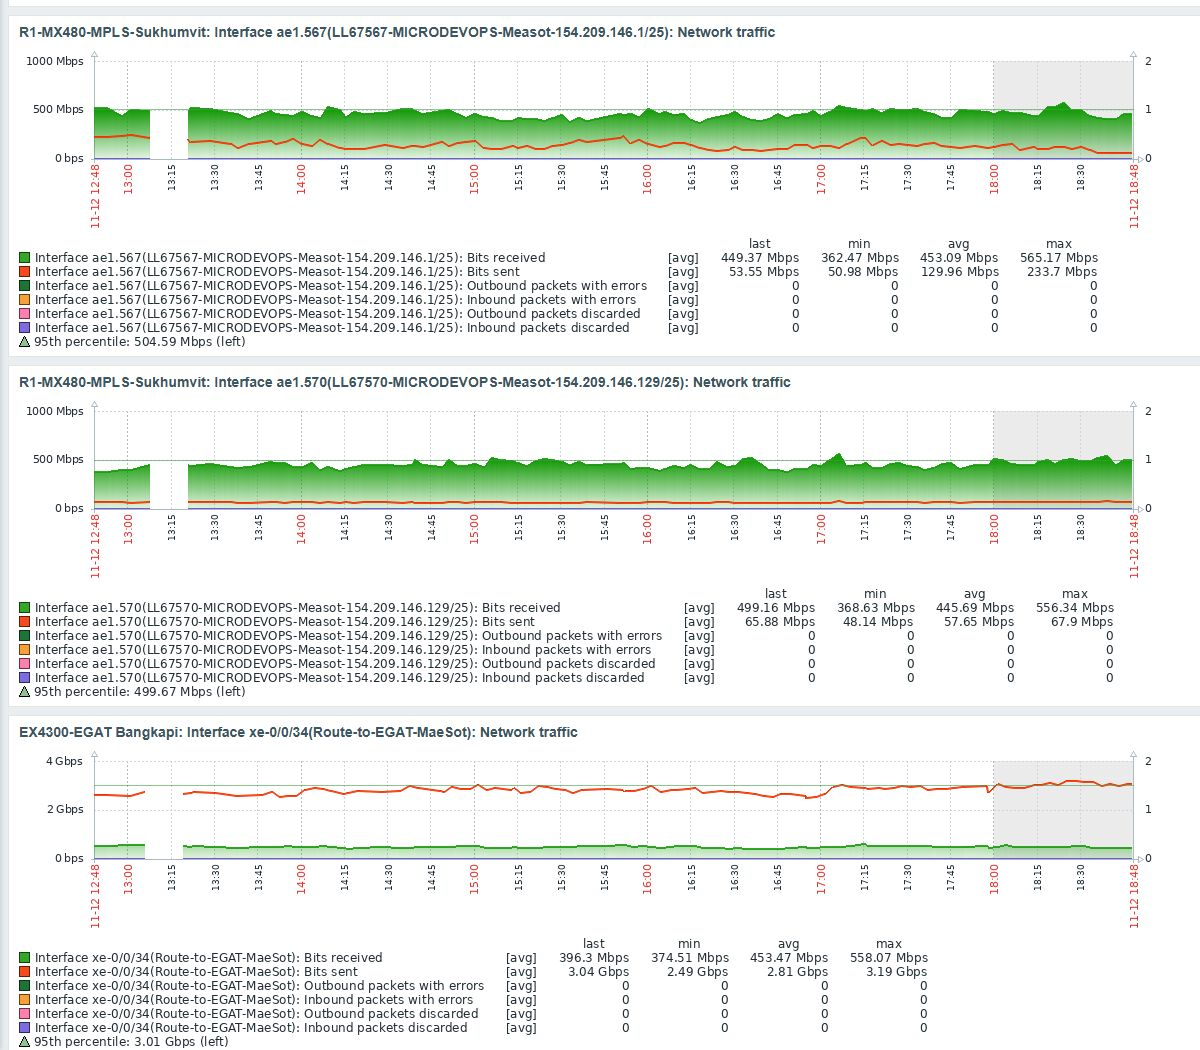
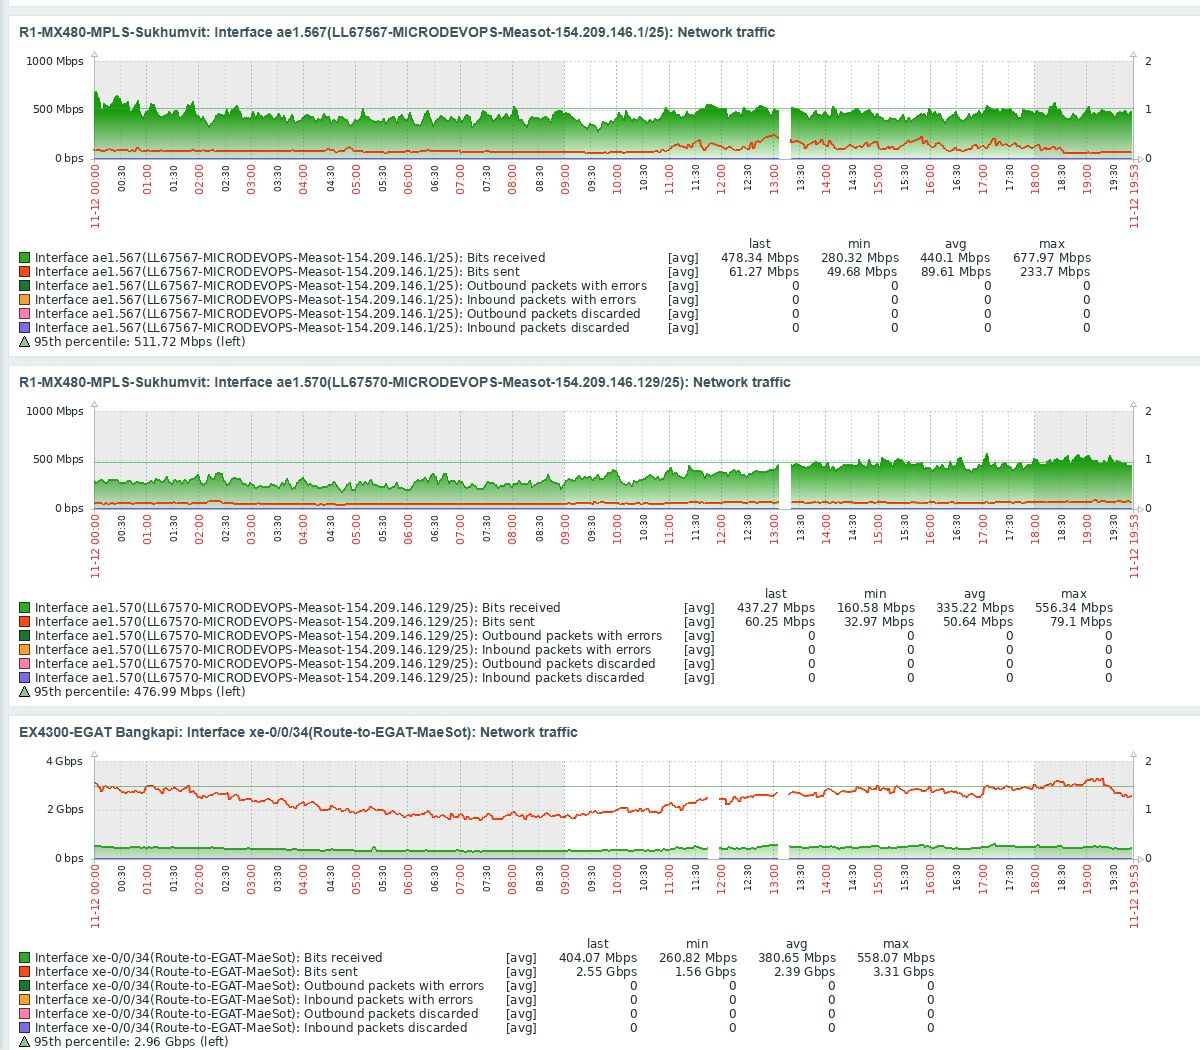
เอาตัวเล็ขเข้าใส่ข้อความเสร็จเรียบร้อย

diff --git a/index.js b/index.js
@@ -89,17 +89,12 @@ function broadcastScheduledMessage(message, uploadResult11, uploadResult12, uplo
 }
 
 cron.schedule('* * * * *', async () => {
-    const datetime2 = ` ${datetime}`;
-    const hyung = ` \nของ พี่หยง \n156.232.105.0/25 (vlan 565) \nbandwith : ปกติ(251M) \n156.232.105.128/25 (vlan 568) \n\n`;
-    const nikky = ` ของ นิกกี้ \n156.232.106.0/25 (vlan 566) \nbandwith : ปกติ(432M) \n154.209.146.0/25 (vlan 567) \nbandwith : ปกติ(432M)\n156.232.106.128/25 (vlan 569)\nbandwith : ปกติ(432M)\n154.209.146.128/25 (vlan 570)\nbandwith : ปกติ(432M)\n\n`;
-    const sumBW = `รวม BW User = 1.74 G`;
-    const message = datetime2 + hyung + nikky + sumBW;
+
     const email = "LL67565";
     const password = "Admin@67565";
     const image1 = './croppedM1.jpg';
     const image2 = './croppedM2.jpg';
     const image3 = './croppedM3.jpg';
-    const moniter1 = 'text1.jpg';
     function delay(time) {
         return new Promise(function (resolve) {
             setTimeout(resolve, time)
@@ -137,35 +132,35 @@ cron.schedule('* * * * *', async () => {
 
             // แคปหน้าจอ
             await page.screenshot({ path: "zabbix-dashboard.png" });
-            sharp('zabbix-dashboard.png') // ไฟล์ภาพต้นฉบับ
-                .extract({ width: 1200, height: 950, left: 50, top: 300 }) // กำหนดขนาดและตำแหน่งที่ต้องการครอบ
-                .toFile('croppedM1.jpg') // บันทึกเป็นไฟล์ใหม่ชื่อ cropped.jpg
-            sharp('zabbix-dashboard.png') // ไฟล์ภาพต้นฉบับ
-                .extract({ width: 1200, height: 700, left: 50, top: 1250 }) // กำหนดขนาดและตำแหน่งที่ต้องการครอบ
-                .toFile('croppedM2.jpg') // บันทึกเป็นไฟล์ใหม่ชื่อ cropped.jpg
-            sharp('zabbix-dashboard.png') // ไฟล์ภาพต้นฉบับ
-                .extract({ width: 1200, height: 1050, left: 50, top: 1950 }) // กำหนดขนาดและตำแหน่งที่ต้องการครอบ
-                .toFile('croppedM3.jpg') // บันทึกเป็นไฟล์ใหม่ชื่อ cropped.jpg
-            sharp('zabbix-dashboard.png') // ไฟล์ภาพต้นฉบับ
-                .extract({ width: 90, height: 15, left: 769, top: 730 }) // กำหนดขนาดและตำแหน่งที่ต้องการครอบ
+            sharp('zabbix-dashboard.png')
+                .extract({ width: 1200, height: 950, left: 50, top: 300 })
+                .toFile('croppedM1.jpg')
+            sharp('zabbix-dashboard.png')
+                .extract({ width: 1200, height: 700, left: 50, top: 1250 })
+                .toFile('croppedM2.jpg')
+            sharp('zabbix-dashboard.png')
+                .extract({ width: 1200, height: 1050, left: 50, top: 1950 })
+                .toFile('croppedM3.jpg')
+            sharp('zabbix-dashboard.png')
+                .extract({ width: 90, height: 15, left: 769, top: 730 })
                 .toFile('text1.jpg')
-            sharp('zabbix-dashboard.png') // ไฟล์ภาพต้นฉบับ
-                .extract({ width: 90, height: 15, left: 780, top: 1150 }) // กำหนดขนาดและตำแหน่งที่ต้องการครอบ
+            sharp('zabbix-dashboard.png')
+                .extract({ width: 90, height: 15, left: 780, top: 1150 })
                 .toFile('text2.jpg')
-            sharp('zabbix-dashboard.png') // ไฟล์ภาพต้นฉบับ
-                .extract({ width: 90, height: 15, left: 769, top: 1500 }) // กำหนดขนาดและตำแหน่งที่ต้องการครอบ
+            sharp('zabbix-dashboard.png')
+                .extract({ width: 90, height: 15, left: 769, top: 1500 })
                 .toFile('text3.jpg')
-            sharp('zabbix-dashboard.png') // ไฟล์ภาพต้นฉบับ
-                .extract({ width: 90, height: 15, left: 780, top: 1850 }) // กำหนดขนาดและตำแหน่งที่ต้องการครอบ
+            sharp('zabbix-dashboard.png')
+                .extract({ width: 90, height: 15, left: 780, top: 1850 })
                 .toFile('text4.jpg')
-            sharp('zabbix-dashboard.png') // ไฟล์ภาพต้นฉบับ
-                .extract({ width: 90, height: 15, left: 769, top: 2200 }) // กำหนดขนาดและตำแหน่งที่ต้องการครอบ
+            sharp('zabbix-dashboard.png')
+                .extract({ width: 90, height: 15, left: 769, top: 2200 })
                 .toFile('text5.jpg')
-            sharp('zabbix-dashboard.png') // ไฟล์ภาพต้นฉบับ
-                .extract({ width: 90, height: 15, left: 780, top: 2550 }) // กำหนดขนาดและตำแหน่งที่ต้องการครอบ
+            sharp('zabbix-dashboard.png')
+                .extract({ width: 90, height: 15, left: 780, top: 2550 })
                 .toFile('text6.jpg')
-            sharp('zabbix-dashboard.png') // ไฟล์ภาพต้นฉบับ
-                .extract({ width: 90, height: 15, left: 605, top: 2915 }) // กำหนดขนาดและตำแหน่งที่ต้องการครอบ
+            sharp('zabbix-dashboard.png')
+                .extract({ width: 90, height: 15, left: 605, top: 2915 })
                 .toFile('text7.jpg')
                 .then(() => {
                     console.log('ภาพคอปและบันทึกสำเร็จ!');
@@ -217,26 +212,35 @@ cron.schedule('* * * * *', async () => {
             'text6.jpg',
             'text7.jpg'
         ];
-        imageFiles.forEach((imageFile, index) => {
-            Tesseract.recognize(
-                imageFile, // ใช้ชื่อไฟล์แต่ละตัวจากลูป
-                'eng', // ภาษา
-                {
-                    logger: m => console.log(`กำลังแปลงภาพที่ ${index + 1}: ${imageFile}`) // แสดงสถานะการประมวลผล
-                }
-            ).then(({ data: { text } }) => {
-                console.log(`ข้อความที่ตรวจพบในภาพ ${imageFile}:`);
-                console.log(text); // แสดงผลข้อความที่ดึงออกมาจากภาพ
-            }).catch(error => {
-                console.error(`เกิดข้อผิดพลาดกับภาพ ${imageFile}:`, error); // จัดการข้อผิดพลาด
-            });
+        Promise.all(
+            imageFiles.map((imageFile, index) =>
+                Tesseract.recognize(
+                    imageFile,
+                    'eng',
+                    {
+                        logger: m => console.log(`กำลังแปลงภาพที่ ${index + 1}: ${imageFile}`)
+                    }
+                ).then(({ data: { text } }) => text)
+            )
+        ).then(texts => {
+            // รวมข้อความทั้งหมดในตัวแปรเดียว
+            const allTexts = texts.join('\n');
+            console.log("ข้อความที่ได้จากภาพทั้งหมด:");
+            console.log(allTexts);
+            const datetime2 = ` ${datetime}`;
+            const hyung = ` \nของ พี่หยง \n156.232.105.0/25 (vlan 565) \nbandwith :ปกติ ${texts[0]} 156.232.105.128/25 (vlan 568) \nbandwith :ปกติ ${texts[1]} \n`;
+            const nikky = ` ของ นิกกี้ \n156.232.106.0/25 (vlan 566) \nbandwith :ปกติ ${texts[2]} 154.209.146.0/25 (vlan 567) \nbandwith :ปกติ ${texts[3]}156.232.106.128/25 (vlan 569)\nbandwith :ปกติ ${texts[4]}154.209.146.128/25 (vlan 570)\nbandwith :ปกติ ${texts[5]}\n`;
+            const sumBW = `รวม BW User = ${texts[6]}`;
+            const message = datetime2 + hyung + nikky + sumBW;
+            const uploadResult11 = uploadResult1.secure_url;
+            const uploadResult12 = uploadResult2.secure_url;
+            const uploadResult13 = uploadResult3.secure_url;
+            broadcastScheduledMessage(message, uploadResult11, uploadResult12, uploadResult13)
+                .then(() => console.log('ส่งข้อความ Broadcast สำเร็จ'))
+                .catch((error) => console.error('เกิดข้อผิดพลาด:', error));
+        }).catch(error => {
+            console.error("เกิดข้อผิดพลาด:", error);
         });
-        const uploadResult11 = uploadResult1.secure_url;
-        const uploadResult12 = uploadResult2.secure_url;
-        const uploadResult13 = uploadResult3.secure_url;
-        broadcastScheduledMessage(message, uploadResult11, uploadResult12, uploadResult13)
-            .then(() => console.log('ส่งข้อความ Broadcast สำเร็จที่เวลา 10:26 น.'))
-            .catch((error) => console.error('เกิดข้อผิดพลาด:', error));
 
     } catch (error) {
         console.error('เกิดข้อผิดพลาด:', error);
